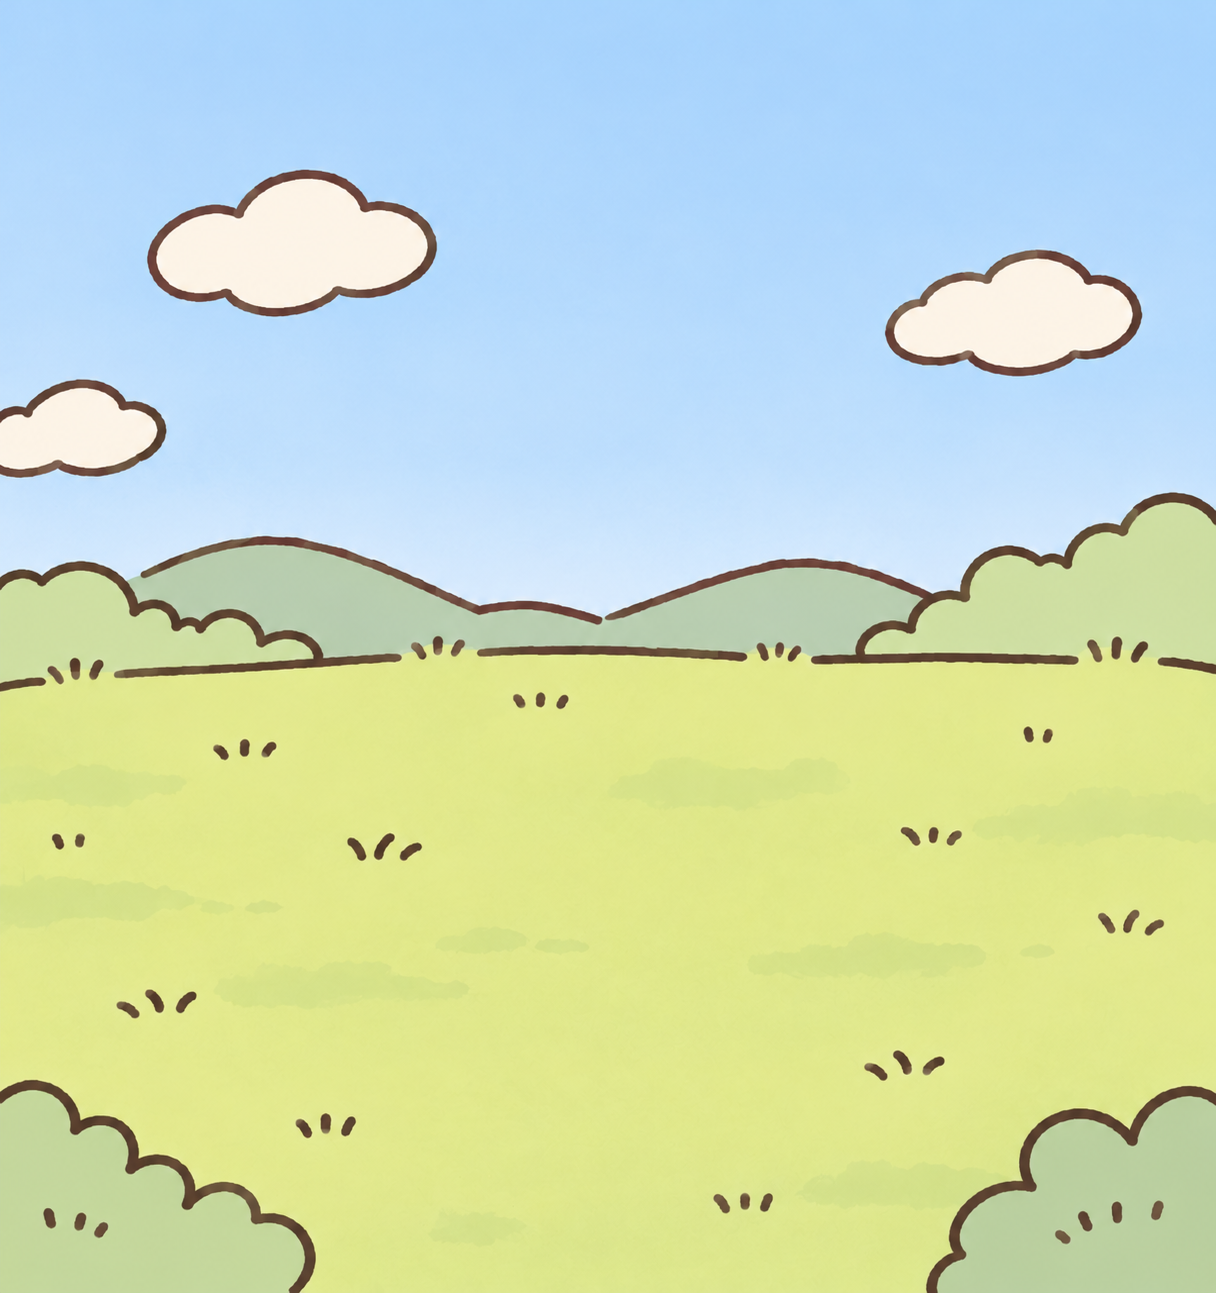
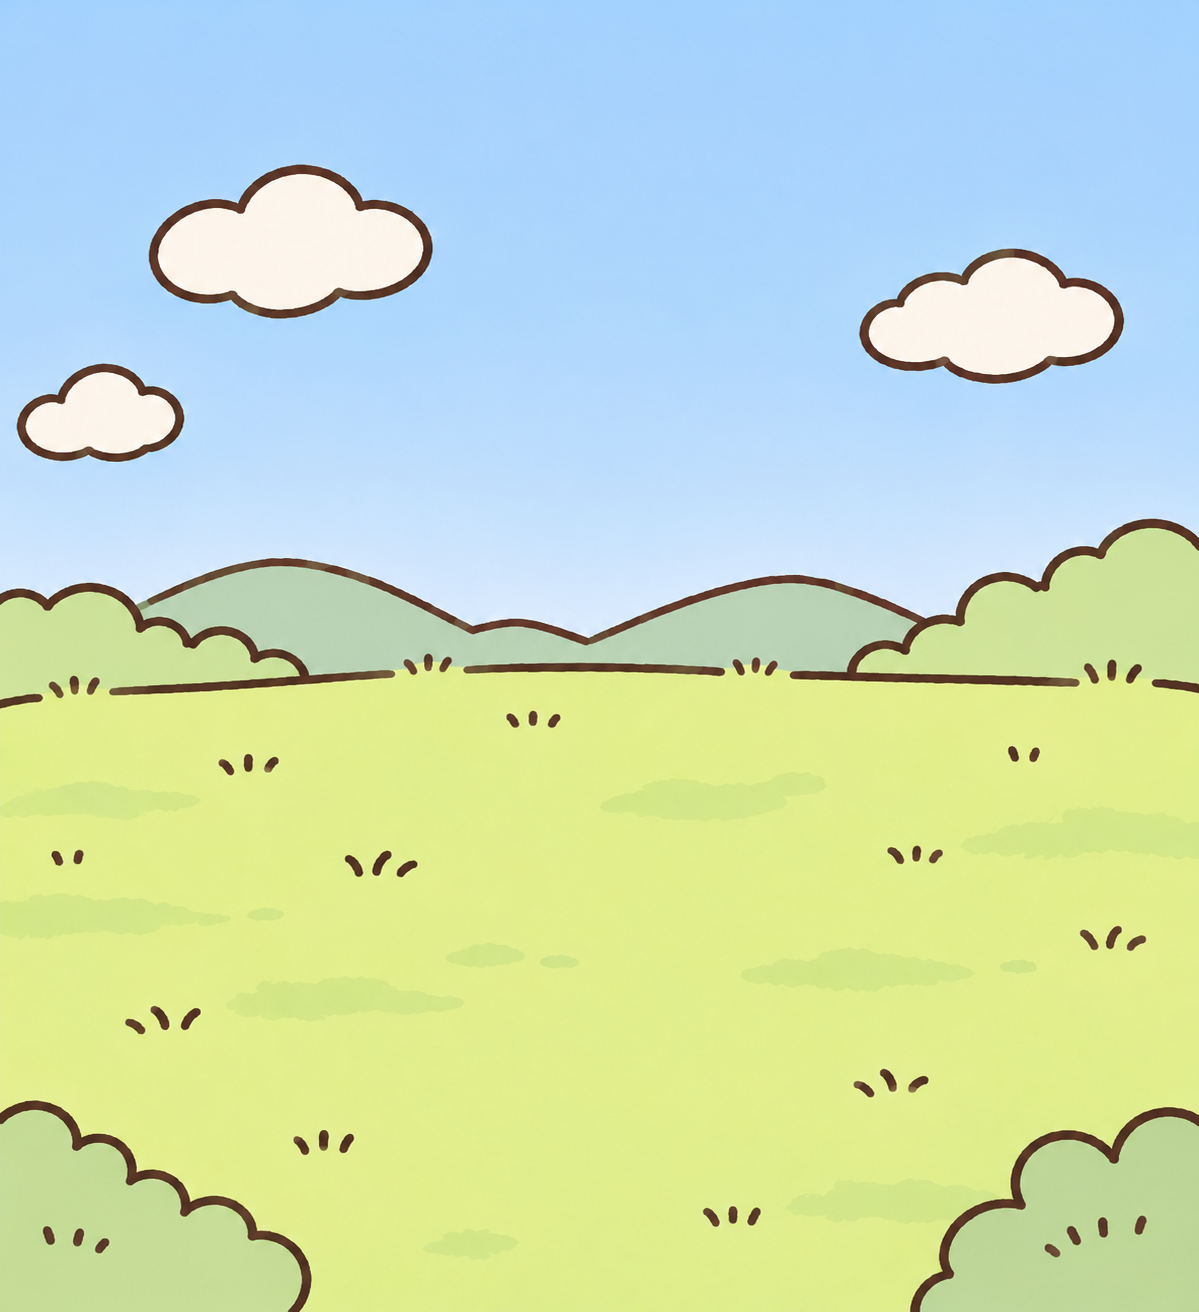
44

diff --git a/src/styles/gacha.css b/src/styles/gacha.css
@@ -4739,3 +4739,11 @@ background:linear-gradient(115deg,transparent 36%,rgba(255,255,255,.65) 49%,tran
 /* High-priority reward notification, outside the clipping battle field. */
 #ui .battle-screen .battle-reward-popup:not([hidden]){display:block!important;position:absolute!important;top:calc(12px + var(--safe-t,0px))!important;left:50%!important;transform:translate(-50%,-12px)!important;z-index:999!important;width:max-content!important;max-width:calc(100% - 24px)!important;box-sizing:border-box!important;padding:13px 18px!important;background:#fff8dc!important;color:#664222!important;border:2px solid #d49a52!important;border-radius:17px!important;box-shadow:0 5px 18px #4c392d55!important;font-weight:900!important;font-size:clamp(12px,3.2vw,17px)!important;text-align:center!important;opacity:0!important;transition:opacity .2s ease,transform .2s ease!important;pointer-events:none!important}
 #ui .battle-screen .battle-reward-popup.is-visible:not([hidden]){opacity:1!important;transform:translate(-50%,0)!important}
+
+/* 2026-11-09 supplied meadow image and readable two-line clear rewards */
+#ui .battle-screen::before{background-image:url('/assets/battle_meadow_20261109.png')!important;background-size:cover!important;background-position:center top!important}
+#ui .battle-screen .battle-reward-popup:not([hidden]){width:min(340px,calc(100% - 24px))!important;max-width:calc(100% - 24px)!important;padding:12px 14px!important;white-space:normal!important;line-height:1.5!important}
+#ui .battle-screen .battle-reward-popup-title{font-size:16px;font-weight:900;margin-bottom:5px}
+#ui .battle-screen .battle-reward-popup-items{display:flex;flex-direction:column;align-items:center;gap:3px;font-size:14px}
+#ui .battle-screen .battle-reward-popup-items span{display:flex;align-items:center;justify-content:center;gap:5px}
+#ui .battle-screen .battle-reward-popup-items img{width:19px;height:19px;object-fit:contain}
